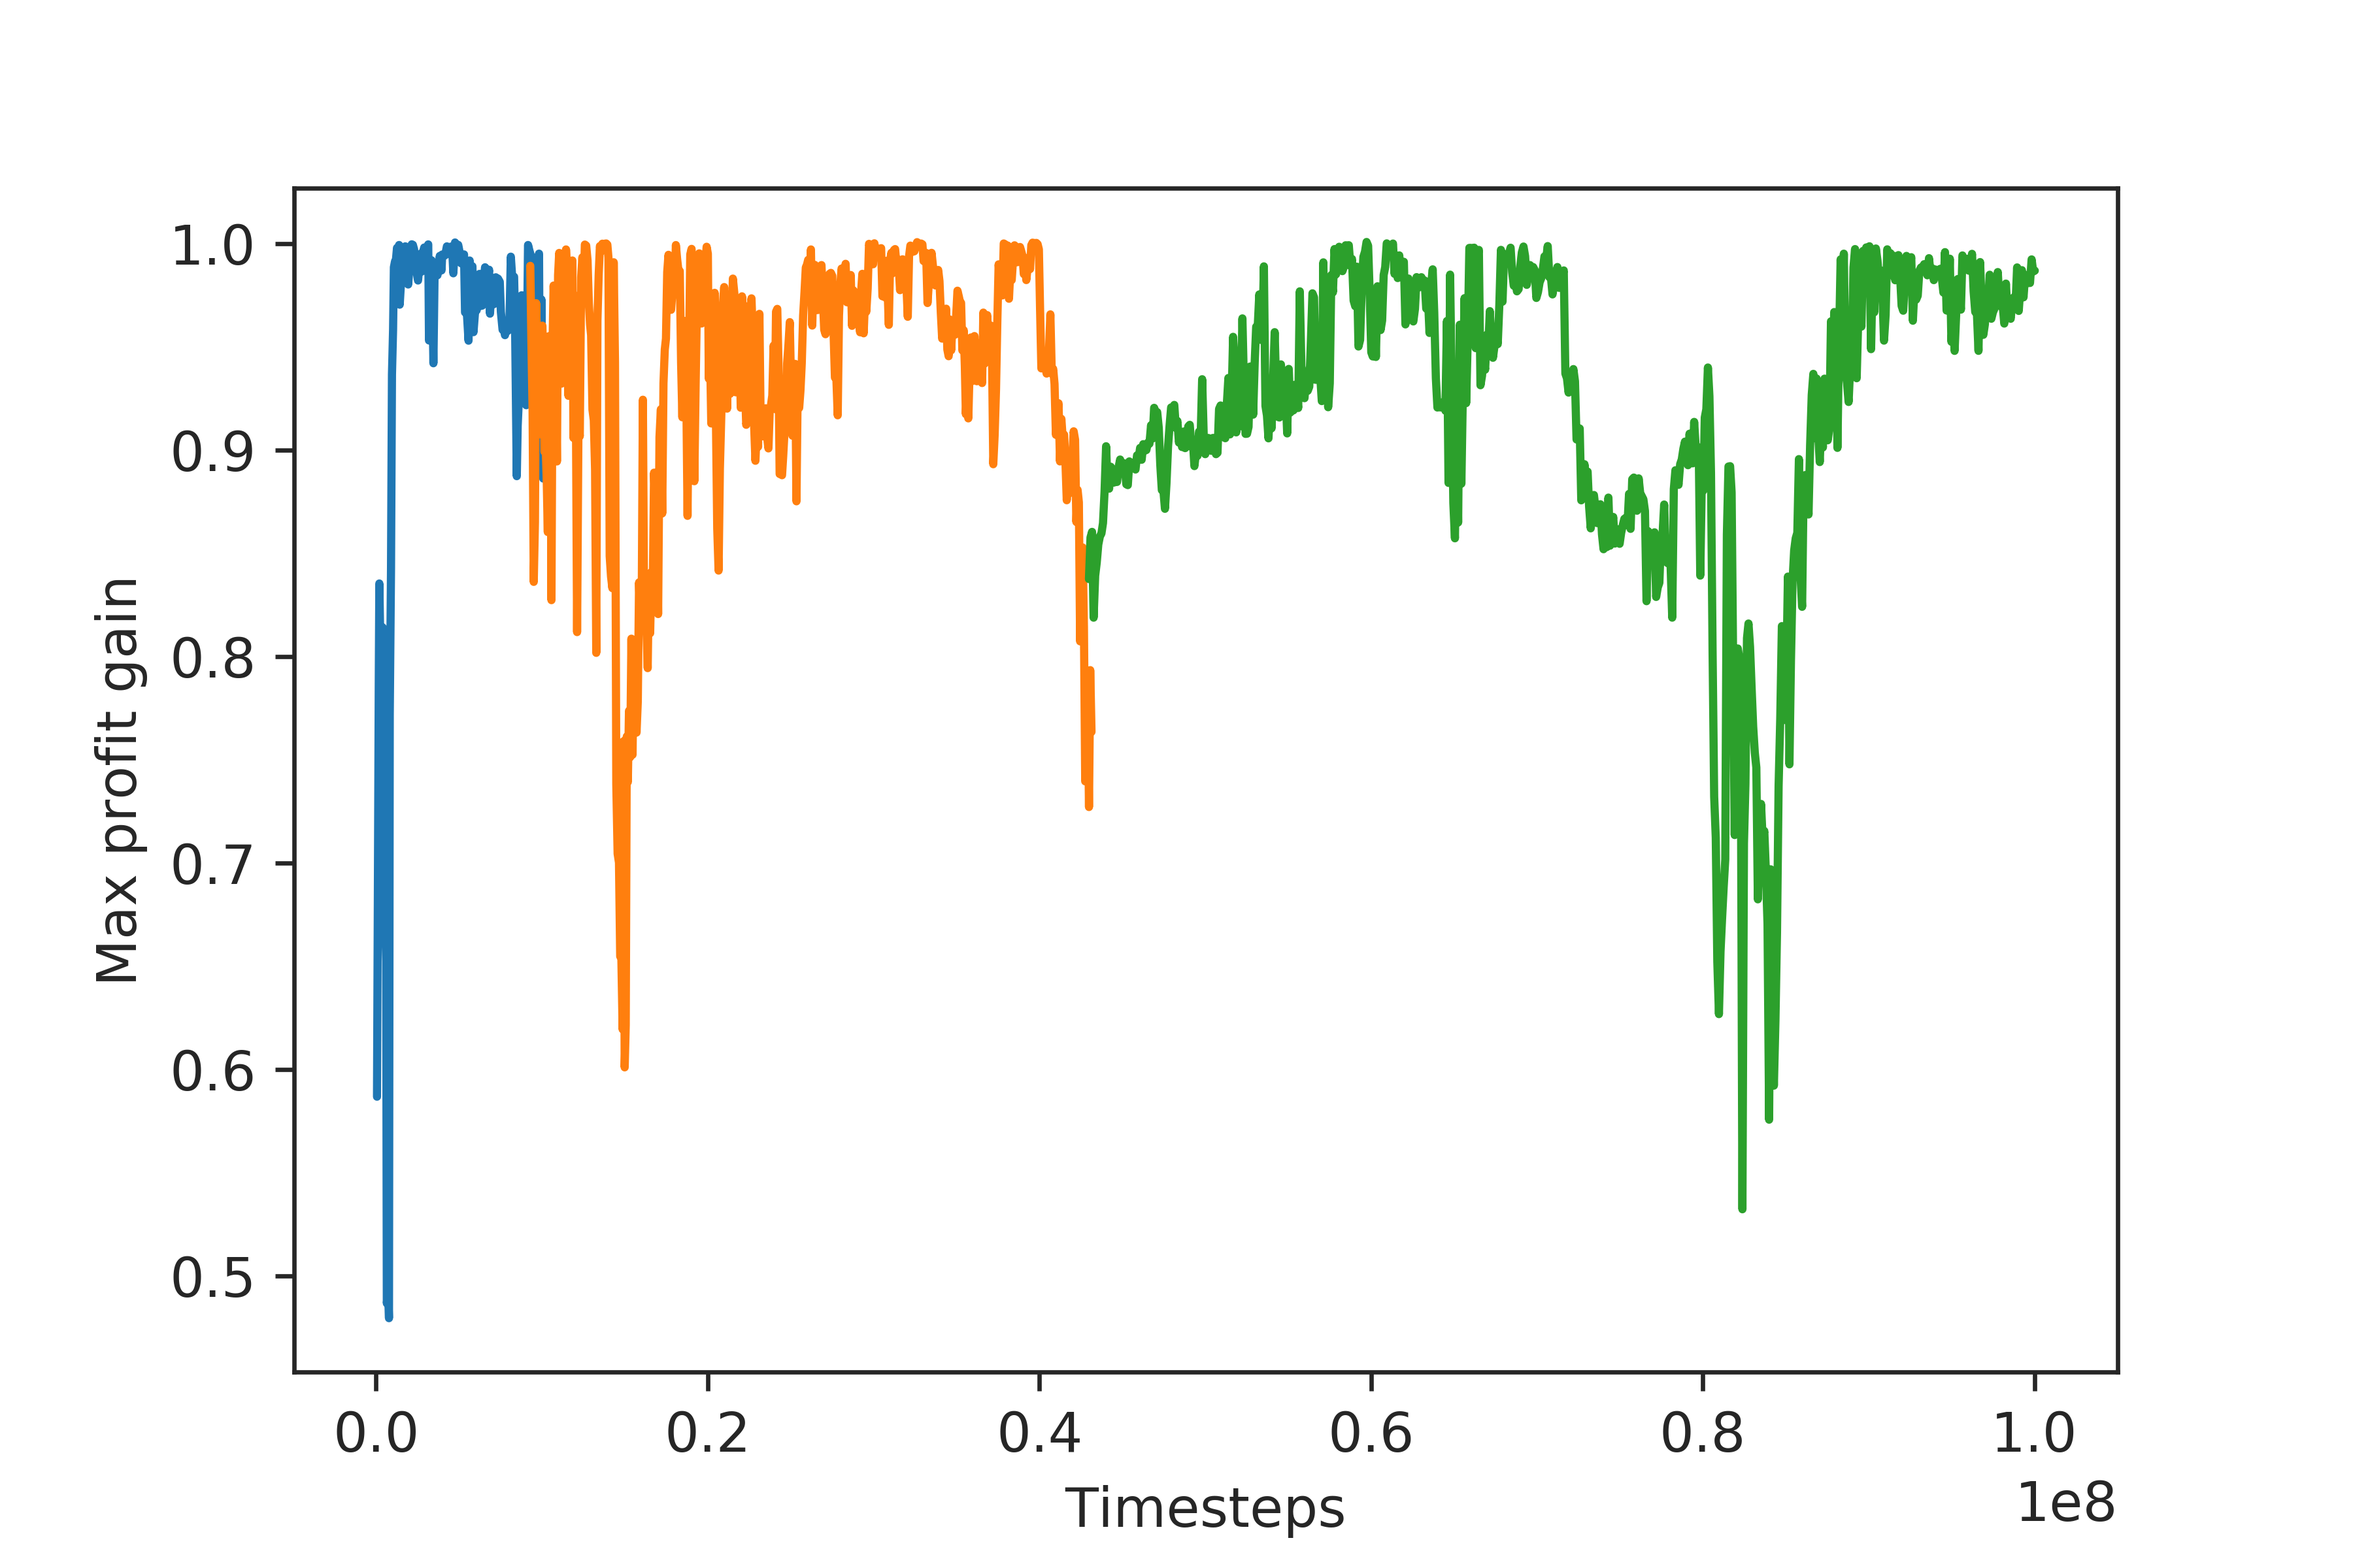
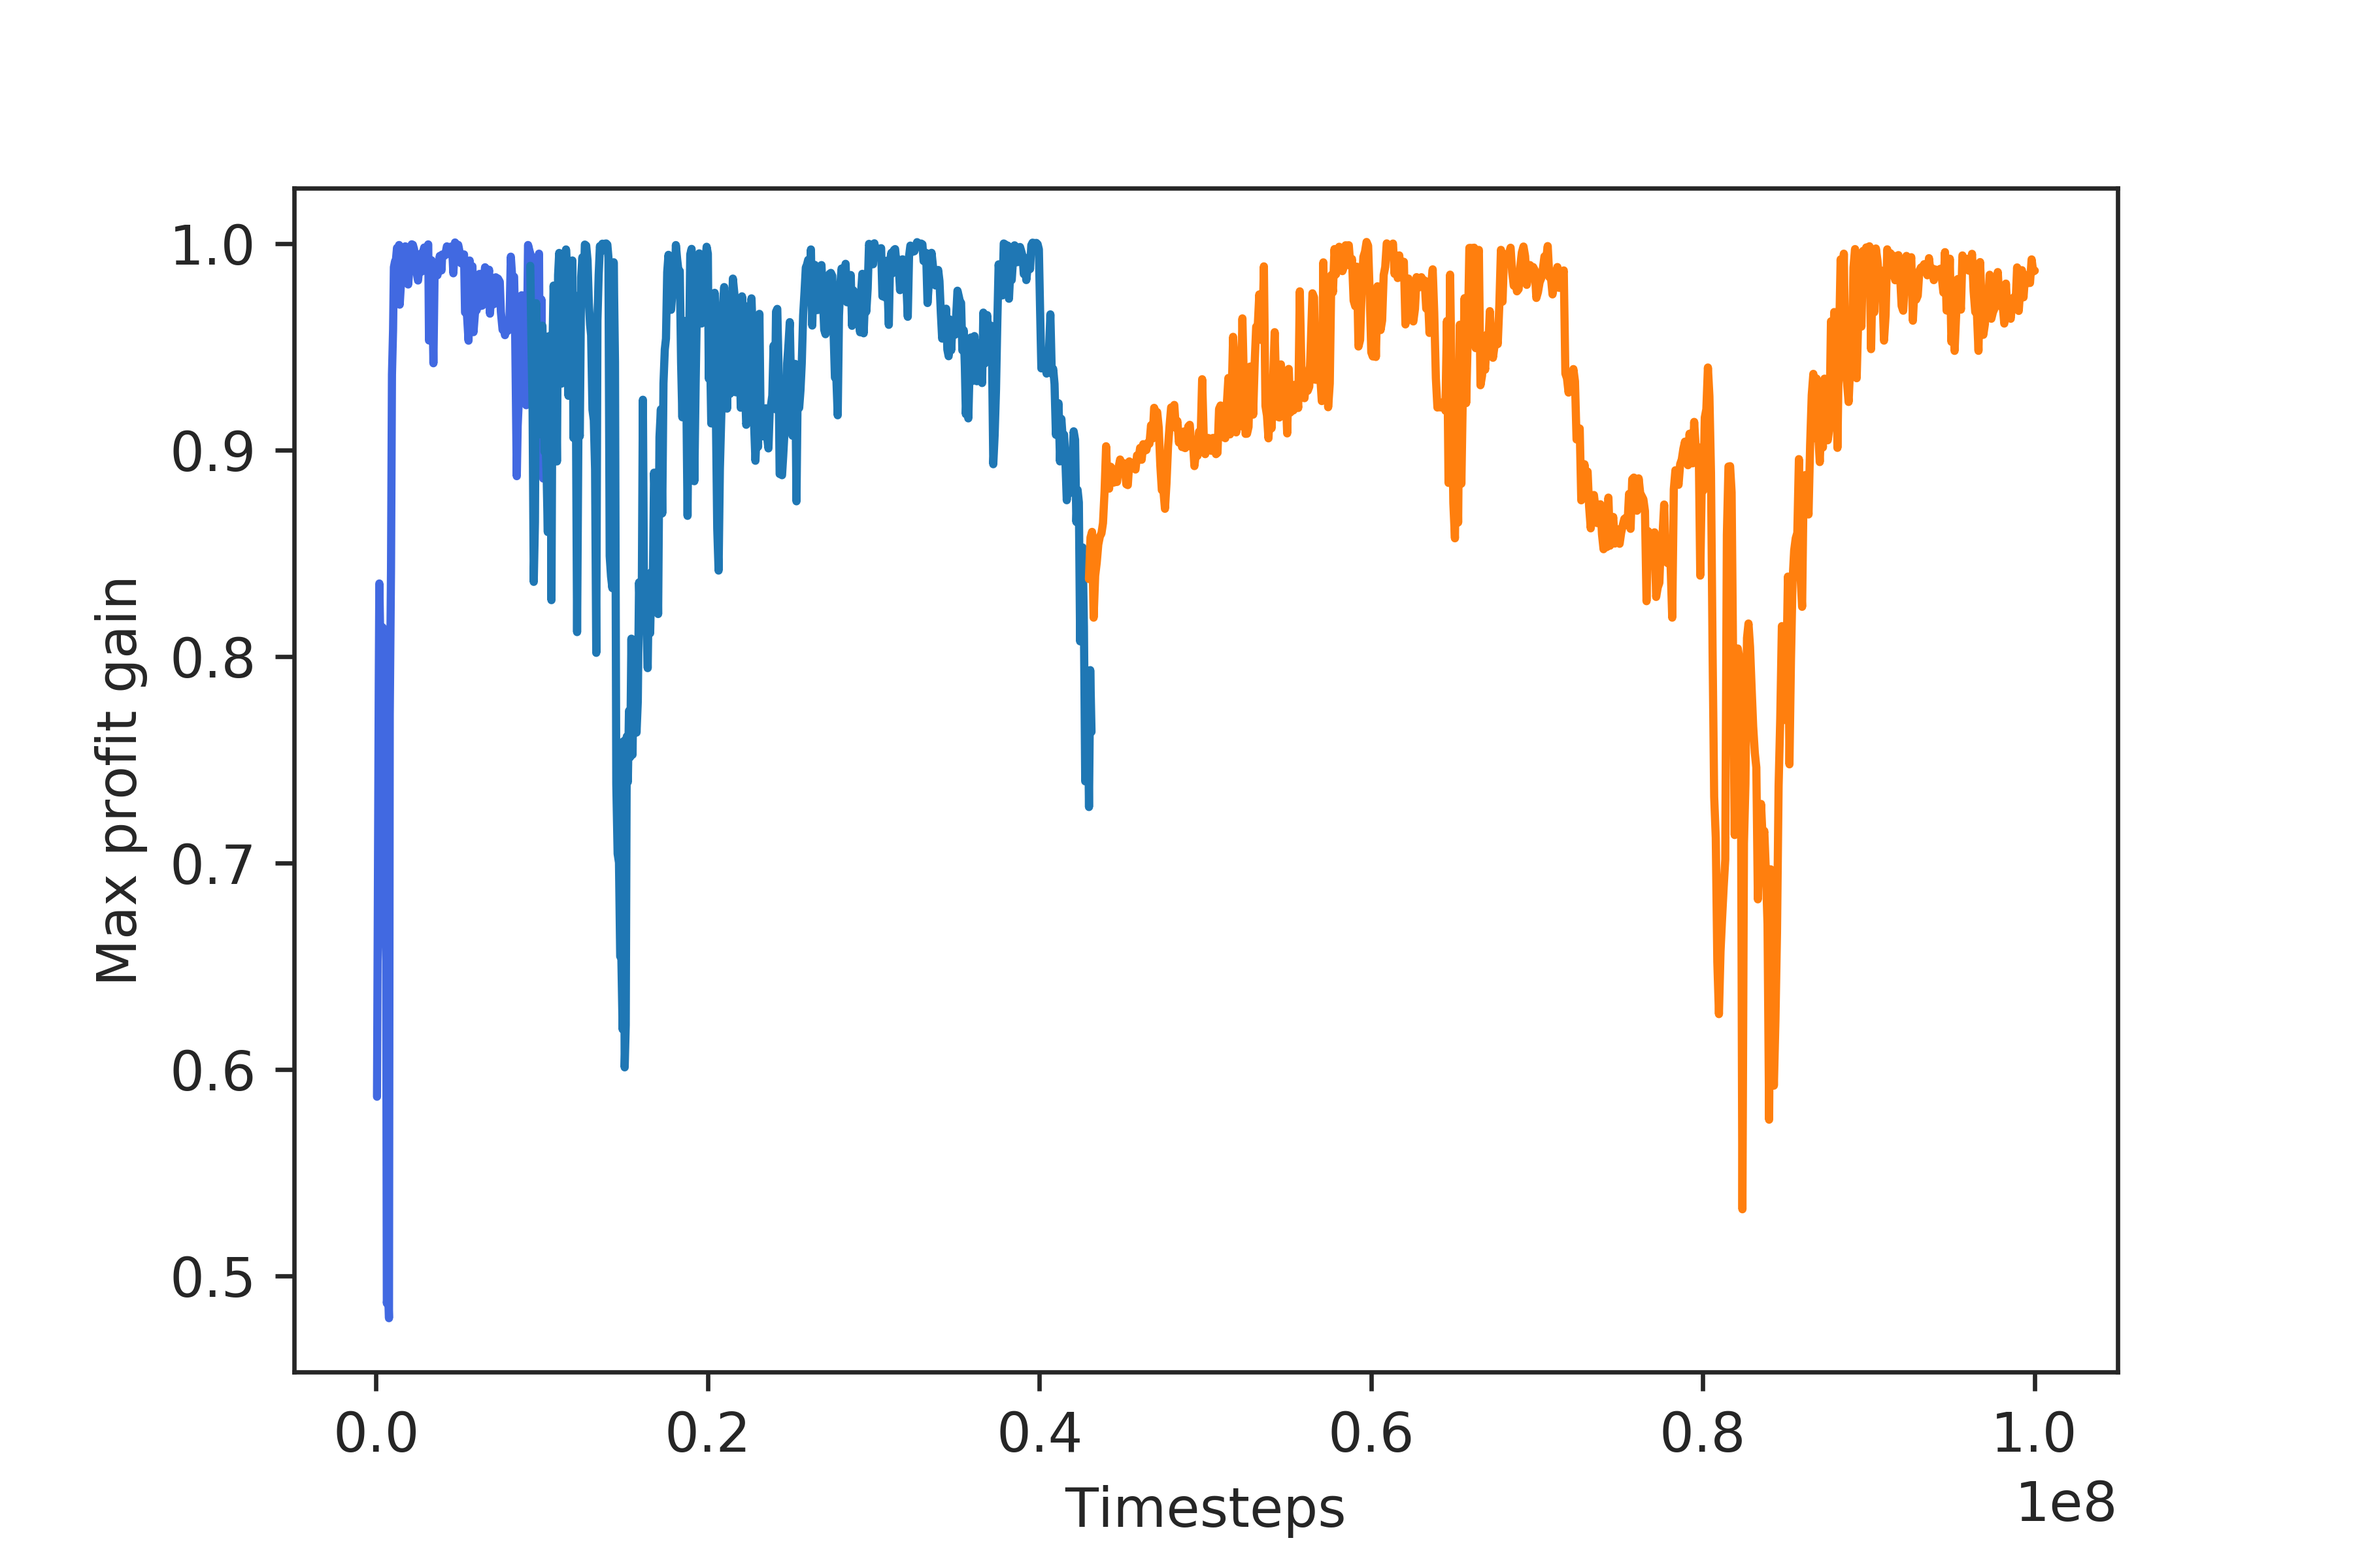
Updated training plots for both cont and disc

Changed region(s): [[0.1556, 0.1562, 0.8711, 0.8438]]

diff --git a/train_results/Azure_ApexDQN_Cont/training_metrics.py b/train_results/Azure_ApexDQN_Cont/training_metrics.py
@@ -46,8 +46,29 @@ def deltas1(data):
     x = (x-22.59)/(33.75-22.59)
     return x
 
+# plot mean-min-max
+plt.plot(data1['ts_total'], deltas(data1['rew_mean']), alpha = 0.95, lw=0.9, c='C0', label = 'mean')
+plt.plot(data2['ts_total'], deltas(data2['rew_mean']), alpha = 0.95, lw=0.9, c='C0')
+plt.plot(data3['ts_total'], deltas(data3['rew_mean']), alpha = 0.95, lw=0.9, c='C0')
+
+plt.plot(data1['ts_total'], deltas(data1['rew_max']), alpha = 0.75, lw=0.75, linestyle=':', color='C2', label = 'max')
+plt.plot(data2['ts_total'], deltas(data2['rew_max']), alpha = 0.75, lw=0.75, linestyle=':', color='C2')
+plt.plot(data3['ts_total'], deltas(data3['rew_max']), alpha = 0.75, lw=0.75, linestyle=':', color='C2')      
+
+plt.plot(data1['ts_total'], deltas(data1['rew_min']), alpha = 0.75, lw=0.75, linestyle=':', color='#fd8d49', label = 'min')
+plt.plot(data2['ts_total'], deltas(data2['rew_min']), alpha = 0.75, lw=0.75, linestyle=':', color='#fd8d49')
+plt.plot(data3['ts_total'], deltas(data3['rew_min']), alpha = 0.75, lw=0.75, linestyle=':', color='#fd8d49')  
+
+plt.legend(loc = 'lower right')       
+plt.xlabel('Timesteps')
+plt.ylabel('Profit gain (delta)')
+plt.savefig('/home/lorenzo/Desktop/training_metrics_0.png', dpi=600)
+plt.show()
+
+
+
 # Aggregate reward
-plt.plot(data1['ts_total'], deltas(data1['rew_max']), label='res0')
+plt.plot(data1['ts_total'], deltas(data1['rew_max']), label='res0',c='royalblue')
 plt.plot(data2['ts_total'], deltas(data2['rew_max']), label='res1')
 plt.plot(data3['ts_total'], deltas(data3['rew_max']), label='res2')
 plt.xlabel('Timesteps')
@@ -72,9 +93,9 @@ plt.savefig('/home/lorenzo/Desktop/training_metrics_3.png', dpi=600)
 plt.show()
 
 # Per agent reward
-plt.plot(data1['ts_total'], deltas1(data1['rew_agt0']), label='Agent_0', c="#247afd")
-plt.plot(data2['ts_total'], deltas1(data2['rew_agt0']), c="#247afd")
-plt.plot(data3['ts_total'], deltas1(data3['rew_agt0']), c="#247afd")
+plt.plot(data1['ts_total'], deltas1(data1['rew_agt0']), label='Agent_0', c="C0")
+plt.plot(data2['ts_total'], deltas1(data2['rew_agt0']), c="C0")
+plt.plot(data3['ts_total'], deltas1(data3['rew_agt0']), c="C0")
 plt.plot(data1['ts_total'], deltas1(data1['rew_agt1']), label='Agent_1', c="#fd8d49")
 plt.plot(data2['ts_total'], deltas1(data2['rew_agt1']), c="#fd8d49")
 plt.plot(data3['ts_total'], deltas1(data3['rew_agt1']), c="#fd8d49")
@@ -85,9 +106,9 @@ plt.savefig('/home/lorenzo/Desktop/training_metrics_4.png', dpi=600)
 plt.show()
 
 # Per agent td error
-plt.plot(data1['ts_total'], data1['tderr_agt0'], label='Agent_0', c="#247afd")
-plt.plot(data2['ts_total'], data2['tderr_agt0'], c="#247afd")
-plt.plot(data3['ts_total'], data3['tderr_agt0'], c="#247afd")
+plt.plot(data1['ts_total'], data1['tderr_agt0'], label='Agent_0', c="C0")
+plt.plot(data2['ts_total'], data2['tderr_agt0'], c="C0")
+plt.plot(data3['ts_total'], data3['tderr_agt0'], c="C0")
 plt.plot(data1['ts_total'], data1['tderr_agt1'], label='Agent_1', c="#fd8d49")
 plt.plot(data2['ts_total'], data2['tderr_agt1'], c="#fd8d49")
 plt.plot(data3['ts_total'], data3['tderr_agt1'], c="#fd8d49")

diff --git a/train_results/Azure_ApexDQN_Disc/training_metrics.py b/train_results/Azure_ApexDQN_Disc/training_metrics.py
@@ -46,6 +46,25 @@ def deltas1(data):
     x = (x-22.59)/(33.75-22.59)
     return x
 
+# plot mean-min-max
+plt.plot(data1['ts_total'], deltas(data1['rew_mean']), alpha = 1, lw=0.95, c='C0', label = 'mean')
+plt.plot(data2['ts_total'], deltas(data2['rew_mean']), alpha = 1, lw=0.95, c='C0')
+plt.plot(data3['ts_total'], deltas(data3['rew_mean']), alpha = 1, lw=0.95, c='C0')
+
+plt.plot(data1['ts_total'], deltas(data1['rew_max']), alpha = 0.75, lw=0.75, linestyle=':', color='C2', label = 'max')
+plt.plot(data2['ts_total'], deltas(data2['rew_max']), alpha = 0.75, lw=0.75, linestyle=':', color='C2')
+plt.plot(data3['ts_total'], deltas(data3['rew_max']), alpha = 0.75, lw=0.75, linestyle=':', color='C2')      
+
+plt.plot(data1['ts_total'], deltas(data1['rew_min']), alpha = 0.75, lw=0.75, linestyle=':', color='#fd8d49', label = 'min')
+plt.plot(data2['ts_total'], deltas(data2['rew_min']), alpha = 0.75, lw=0.75, linestyle=':', color='#fd8d49')
+plt.plot(data3['ts_total'], deltas(data3['rew_min']), alpha = 0.75, lw=0.75, linestyle=':', color='#fd8d49')  
+
+plt.legend(loc = 'lower right')       
+plt.xlabel('Timesteps')
+plt.ylabel('Profit gain (delta)')
+plt.savefig('/home/lorenzo/Desktop/training_metrics_0.png', dpi=600)
+plt.show()
+
 # Aggregate reward
 plt.plot(data1['ts_total'], deltas(data1['rew_max']), label='res0')
 plt.plot(data2['ts_total'], deltas(data2['rew_max']), label='res1')
@@ -72,9 +91,9 @@ plt.savefig('/home/lorenzo/Desktop/training_metrics_3d.png', dpi=600)
 plt.show()
 
 # Per agent reward
-plt.plot(data1['ts_total'], deltas1(data1['rew_agt0']), label='Agent_0', c="#247afd")
-plt.plot(data2['ts_total'], deltas1(data2['rew_agt0']), c="#247afd")
-plt.plot(data3['ts_total'], deltas1(data3['rew_agt0']), c="#247afd")
+plt.plot(data1['ts_total'], deltas1(data1['rew_agt0']), label='Agent_0', c='C0')
+plt.plot(data2['ts_total'], deltas1(data2['rew_agt0']), c='C0')
+plt.plot(data3['ts_total'], deltas1(data3['rew_agt0']), c='C0')
 plt.plot(data1['ts_total'], deltas1(data1['rew_agt1']), label='Agent_1', c="#fd8d49")
 plt.plot(data2['ts_total'], deltas1(data2['rew_agt1']), c="#fd8d49")
 plt.plot(data3['ts_total'], deltas1(data3['rew_agt1']), c="#fd8d49")
@@ -85,9 +104,9 @@ plt.savefig('/home/lorenzo/Desktop/training_metrics_4d.png', dpi=600)
 plt.show()
 
 # Per agent td error
-plt.plot(data1['ts_total'], data1['tderr_agt0'], label='Agent_0', c="#247afd")
-plt.plot(data2['ts_total'], data2['tderr_agt0'], c="#247afd")
-plt.plot(data3['ts_total'], data3['tderr_agt0'], c="#247afd")
+plt.plot(data1['ts_total'], data1['tderr_agt0'], label='Agent_0', c='C0')
+plt.plot(data2['ts_total'], data2['tderr_agt0'], c='C0')
+plt.plot(data3['ts_total'], data3['tderr_agt0'], c='C0')
 plt.plot(data1['ts_total'], data1['tderr_agt1'], label='Agent_1', c="#fd8d49")
 plt.plot(data2['ts_total'], data2['tderr_agt1'], c="#fd8d49")
 plt.plot(data3['ts_total'], data3['tderr_agt1'], c="#fd8d49")

diff --git a/train_results/Azure_cont_multisample/training_metrics/training_metrics.py b/train_results/Azure_cont_multisample/training_metrics/training_metrics.py
@@ -62,18 +62,18 @@ for i in dfs:
     dfs[i] = dfs[i][0:106]
 
 data_mean = pd.concat(dfs.values()).groupby(level=0).mean()
-data_max = pd.concat(dfs.values()).groupby(level=0).min()
-data_min = pd.concat(dfs.values()).groupby(level=0).max()
 data_std = pd.concat(dfs.values()).groupby(level=0).std()
 
 # Aggregate reward
-plt.plot(data_max['ts_total'], data_max['delta_max'], linestyle='--', color='grey')
-plt.plot(data_min['ts_total'], data_min['delta_min'], linestyle='--', color='grey')
-plt.plot(data_mean['ts_total'], data_mean['delta_mean'])
-plt.fill_between(data_mean['ts_total'], (data_mean['delta_mean']-1.96*data_std['delta_mean']), (data_mean['delta_mean']+1.96*data_std['delta_mean']), alpha=.2)
+plt.plot(data_mean['ts_total'], data_mean['delta_max'], linestyle='-.', color='grey', label = 'max')
+plt.plot(data_mean['ts_total'], data_mean['delta_min'], linestyle='--', color='grey', label = 'min')
+plt.plot(data_mean['ts_total'], data_mean['delta_mean'], label = 'mean')
+plt.fill_between(data_mean['ts_total'], (data_mean['delta_mean']-1.96*data_std['delta_mean']),
+                 (data_mean['delta_mean']+1.96*data_std['delta_mean']), alpha=.2)
+plt.legend(loc = 'lower right')
 plt.xlabel('Timesteps')
 plt.ylabel('Profit gain')
-plt.savefig('/home/lorenzo/Desktop/training_metrics_2.png', dpi=600)
+plt.savefig('/home/lorenzo/Desktop/multisample-train_avg_reward.png', dpi=600)
 plt.show()
 
 # Per agent reward
@@ -81,6 +81,6 @@ plt.plot(data_mean['ts_total'], data_mean['delta_agt0'], label='Agent_0')
 plt.plot(data_mean['ts_total'], data_mean['delta_agt1'], label='Agent_1')
 plt.xlabel('Timesteps')
 plt.ylabel('Average profit gains')
-plt.legend()
-plt.savefig('/home/lorenzo/Desktop/training_metrics_4.png', dpi=600)
+plt.legend(loc = 'lower right')
+plt.savefig('/home/lorenzo/Desktop/multisample-train_peragt_reward.png', dpi=600)
 plt.show()
